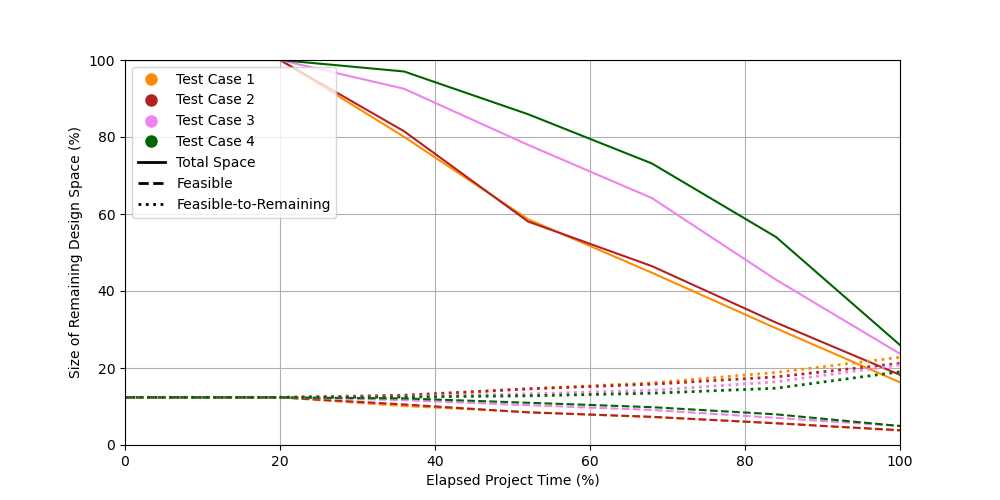
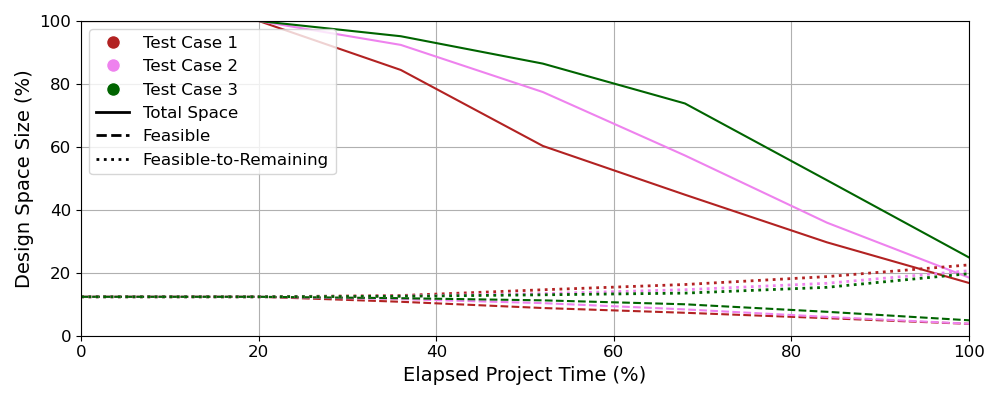
New results gathered

diff --git a/Python Code/Simulation_Results_050_DTC1/plot_data.py b/Python Code/Simulation_Results_050_DTC1/plot_data.py
@@ -179,7 +179,7 @@ def plotDisciplines(all_disciplines_data, feas1_disciplines_data,
         
         # Set x- and y-axis labels
         plt.xlabel('Elapsed Project Time (%)', fontsize=14)
-        plt.ylabel('Size of Remaining Design Space (%)', fontsize=14)
+        plt.ylabel('Design Space Size (%)', fontsize=14)
         
         # Set x- and y-axis limits
         plt.xlim([0, 100])
@@ -190,6 +190,9 @@ def plotDisciplines(all_disciplines_data, feas1_disciplines_data,
         
         # Plot gridlines
         plt.grid(True)
+        
+        # Adjust layout to fit all elements within the figure
+        plt.tight_layout()
         
         # Show graph
         plt.show()
@@ -263,7 +266,7 @@ def plotDiversity(discipline_data, data_type, linestyle, colors, marker=None):
         
         # Set x- and y-axis labels with increased font size
         plt.xlabel('Elapsed Project Time (%)', fontsize=14)
-        plt.ylabel('Discrepancy of Remaining Designs', fontsize=14)
+        plt.ylabel('Design Space Discrepancy', fontsize=14)
         
         # Set x- and y-axis limits
         plt.xlim([0, 100])
@@ -274,6 +277,9 @@ def plotDiversity(discipline_data, data_type, linestyle, colors, marker=None):
         
         # Plot gridlines
         plt.grid(True)
+        
+        # Adjust layout to fit all elements within the figure
+        plt.tight_layout()
         
         # Show graph
         plt.show()
